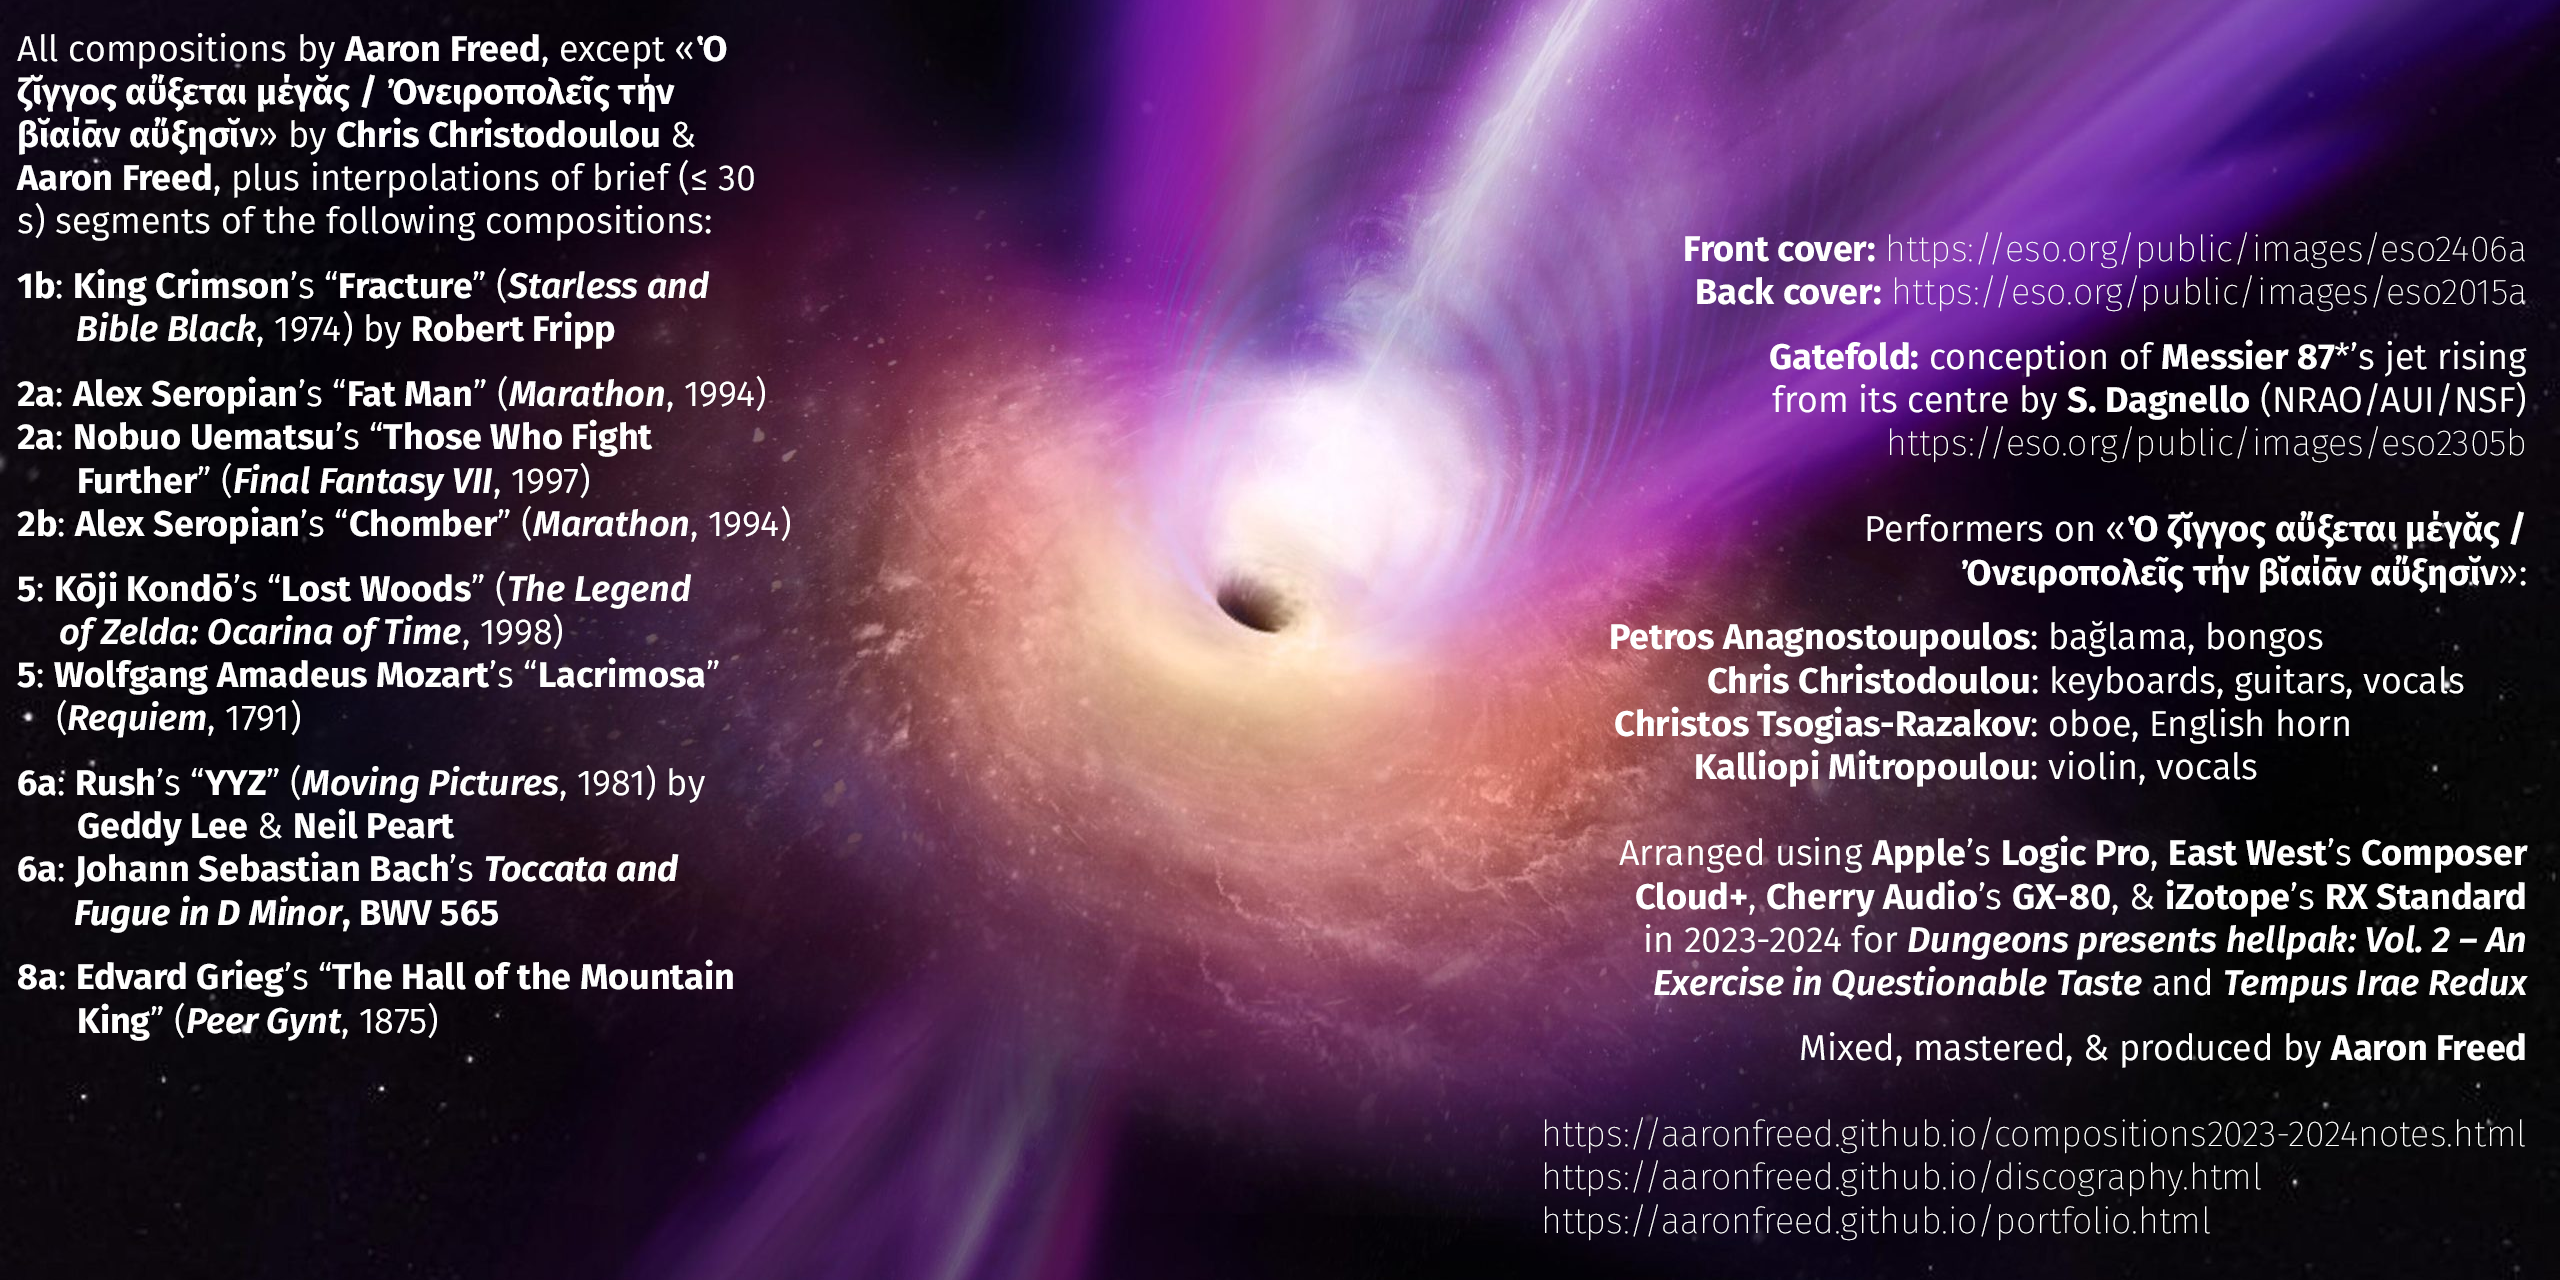
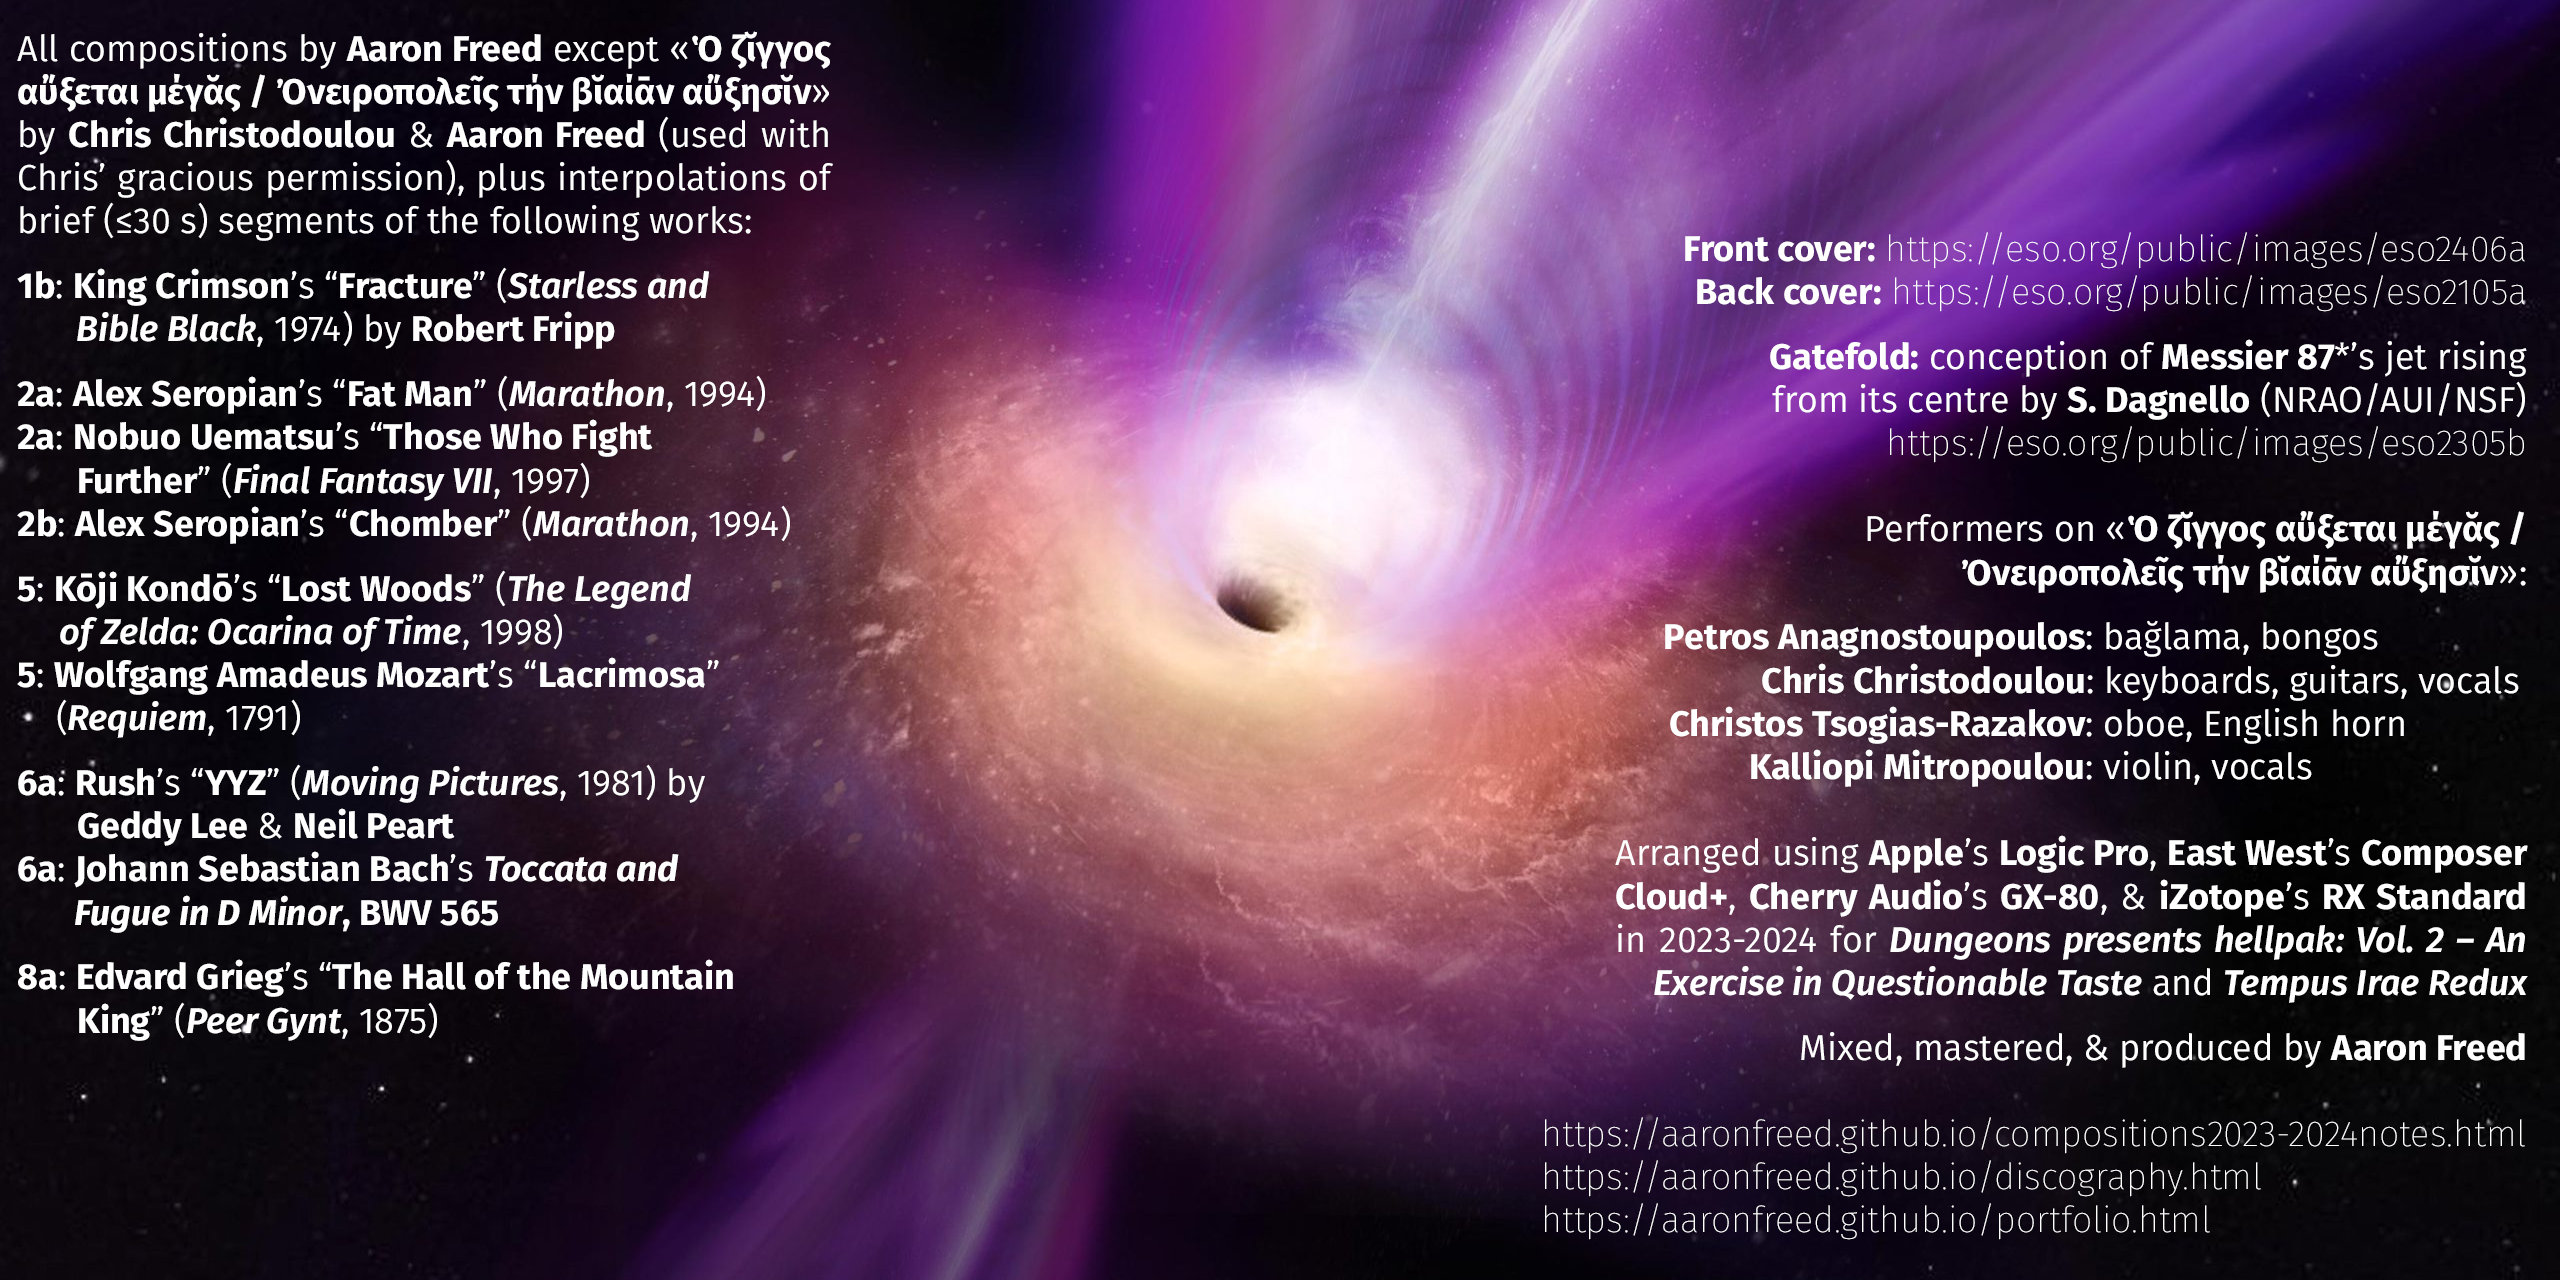
update compositions2023-2024notes.html and compositions2023-2024gatefold.png

diff --git a/compositions2023-2024notes.html b/compositions2023-2024notes.html
@@ -302,7 +302,10 @@
 
 <div class="image noprint"><a href="https://aaronfreed.github.io/images/compositions2023-2024gatefold.png" target="_blank" title="back cover"><img src="https://aaronfreed.github.io/images/compositions2023-2024gatefold.png" width="800" height="400" title="Gatefold: Artist S. Dagnello's conception of Messier 87*'s jet (NRAO/AUI/NSF)" alt="Gatefold: Artist S. Dagnello's conception of Messier 87*'s jet" /></a></div>
 
-<p class="fixheight">Conception of the jet rising out of <span class="toc-counter weight2">M87*</span> by artist S. Dagnello (NRAO/AUI/NSF), <a href="https://www.eso.org/public/images/eso2305b/" target="_blank" class="songlink underline" rel="nofollow">released 2023-04-26</a>.</p>
+<p class="fixheight">Conception of the jet rising out of <span class="toc-counter weight2">M87*</span> by artist <span class="accent weight3">S. Dagnello</span> <span class="toc-counter weight2">(NRAO/AUI/NSF)</span>, <a href="https://www.eso.org/public/images/eso2305b/" target="_blank" class="songlink underline" rel="nofollow">released 2023-04-26</a>. Like the front and back cover, it was produced under the <span class="toc-counter weight2">ESO</span>&rsquo;s auspices and is licensed as <span class="toc-counter weight2">CC-BY 4.0</span>.</p>
+
+<p class="sectionbreak noprint"><a href="#top">Back to top</a> &middot; <a href="#tracklist">Tracklist</a> &middot; <a href="https://aaronfreed.github.io/discography.html">My discography</a> &middot; <a href="https://aaronfreed.github.io/aboutme.html">Contact me</a> &middot; <a href="https://aaronfreed.github.io">Website index</a></p>
+
 <h1 class="centred" style="margin-top: 24px;" id="commentary">Track Commentary</h1>
 
 <ol start="1" class="contents weight1" style="font-size: 20px;">
